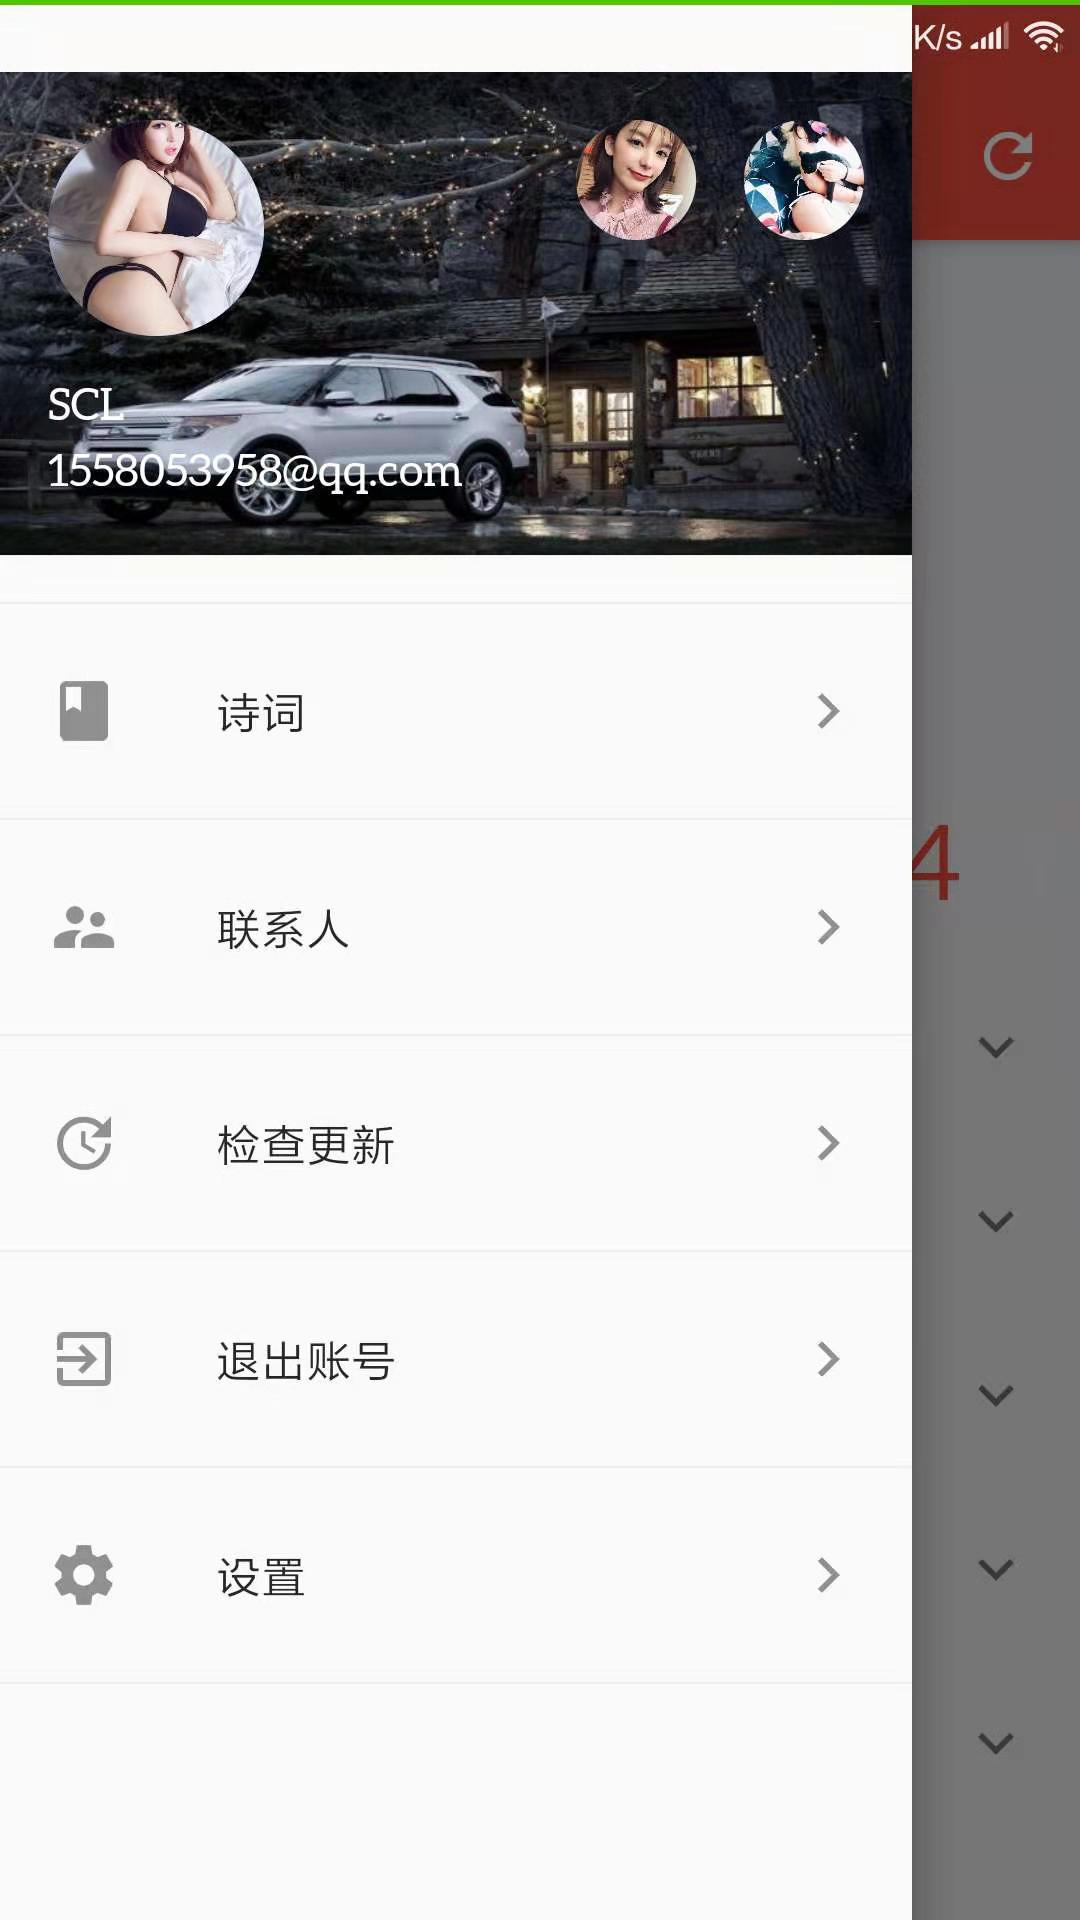
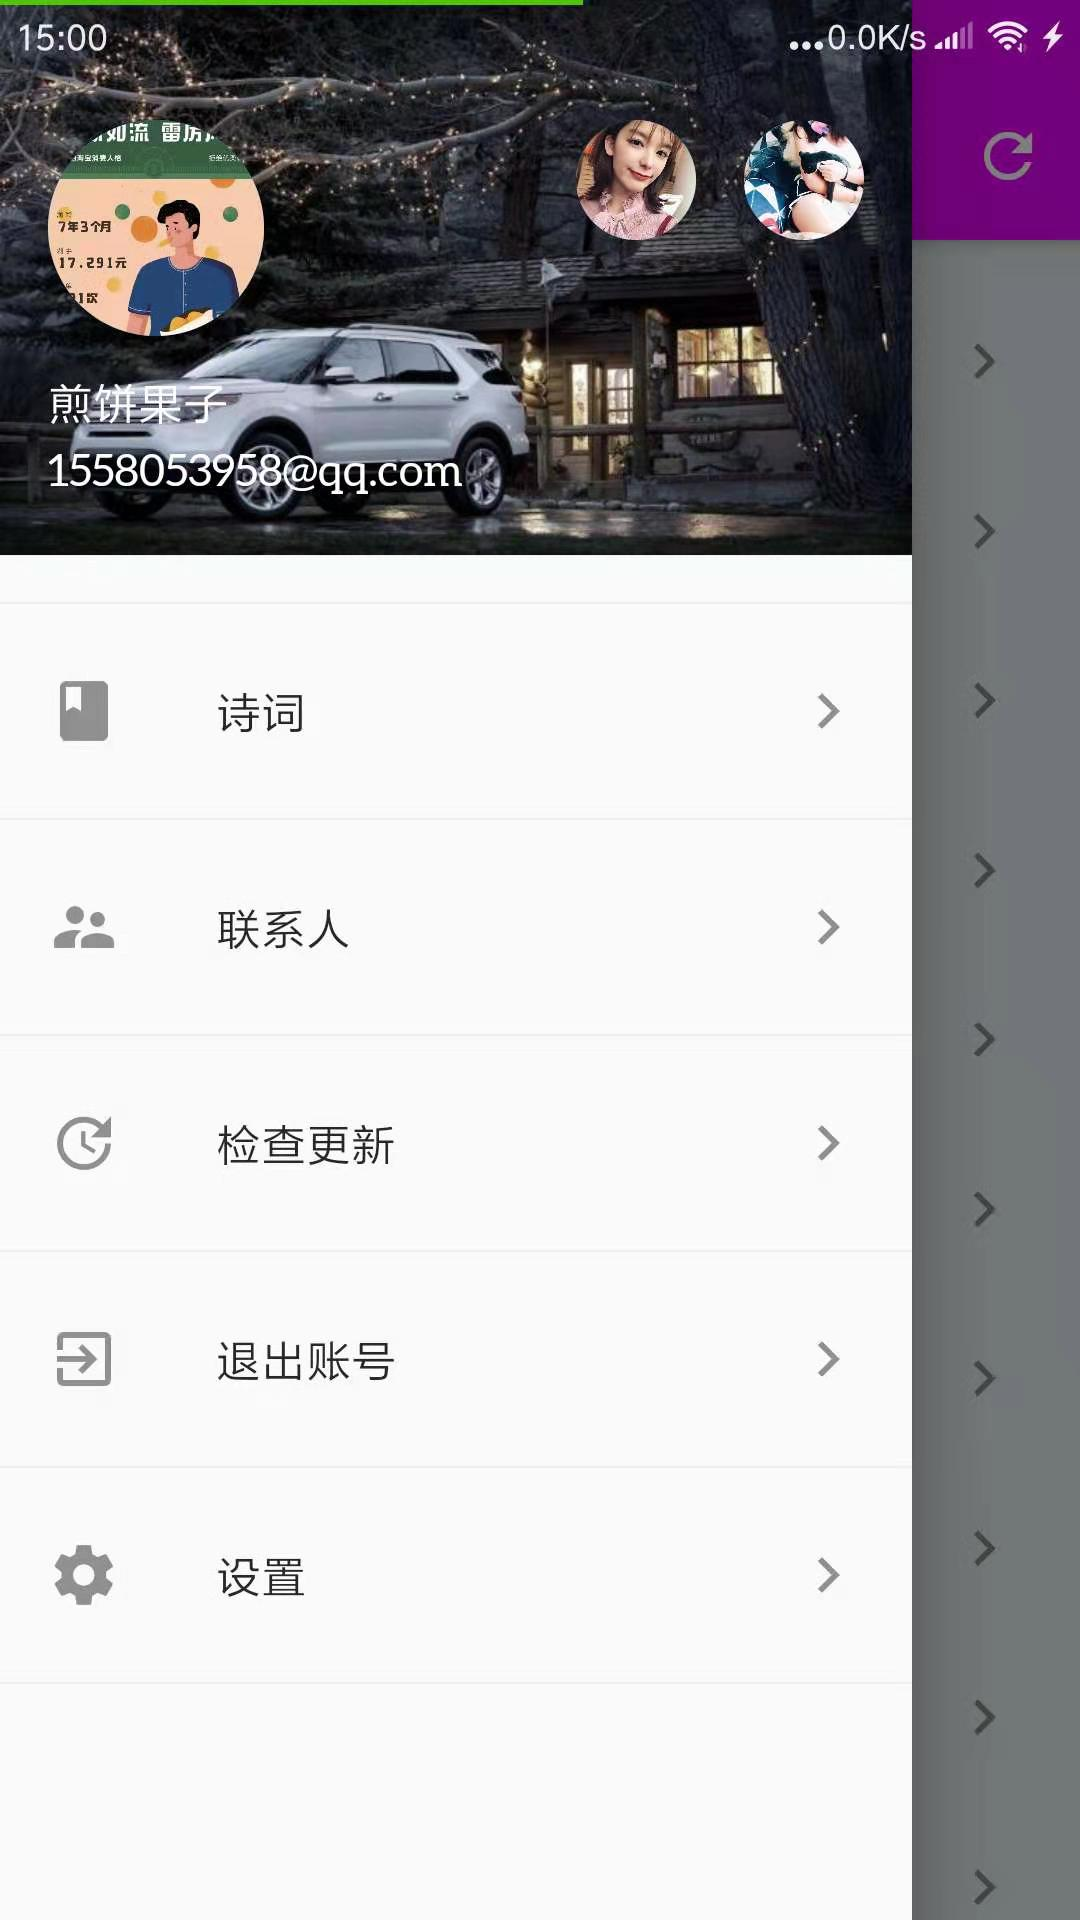
个人中心界面调整

diff --git a/lib/page/mine_page.dart b/lib/page/mine_page.dart
@@ -1,8 +1,8 @@
 import 'dart:io';
 
+import 'package:clippy_flutter/clippy_flutter.dart';
 import 'package:flutter/cupertino.dart';
 import 'package:flutter/material.dart';
-import 'package:font_awesome_flutter/font_awesome_flutter.dart';
 
 import '../generated/i18n.dart';
 import '../store/index.dart';
@@ -28,88 +28,118 @@ class _MinePageState extends State<MinePage> {
   Widget build(BuildContext context) {
     return Store.connect<UserModel>(builder: (_, UserModel _data, __) {
       return Scaffold(
-        backgroundColor: Colors.grey[200],
-        body: SingleChildScrollView(
-          child: Column(children: <Widget>[
-            Container(
-              child: AppBar(
-                elevation: 0.0,
-                title: Text('个人中心'),
-                centerTitle: true,
-                actions: <Widget>[
-                  IconButton(
-                      icon: Text(isEdit
-                          ? "${S.of(context).save}"
-                          : '${S.of(context).edit}'),
-                      onPressed: () {
-                        setState(() {
-                          isEdit = !isEdit;
-                        });
-                      })
-                ],
+          backgroundColor: Colors.grey[200],
+          body: Stack(
+            children: <Widget>[
+              SingleChildScrollView(
+                child: Column(children: <Widget>[
+                  Container(
+                      height: 250,
+                      child: Stack(children: <Widget>[
+                        Arc(
+                            child: ImageLoadView(backgroundImage,
+                                fit: BoxFit.cover,
+                                height: 210,
+                                width: double.infinity),
+                            height: 30,
+                            edge: Edge.BOTTOM,
+                            arcType: ArcType.CONVEX),
+                        Positioned(
+                            child: Container(
+                              child: Column(children: <Widget>[
+                                Align(
+                                    alignment: Alignment.center,
+                                    child: InkWell(
+                                        onTap: isEdit
+                                            ? () => pushNewPage(
+                                                context,
+                                                InputTextPage(
+                                                    title: '修改姓名',
+                                                    content:
+                                                        '${_data.getName()}',
+                                                    maxLines: 1,
+                                                    maxLength: 5),
+                                                callBack: (value) =>
+                                                    _data.setUser(name: value))
+                                            : null,
+                                        child: Row(
+                                            mainAxisSize: MainAxisSize.min,
+                                            children: <Widget>[
+                                              Text('${_data.getName()}',
+                                                  style:
+                                                      TextStyles.textWhite16),
+                                              Offstage(
+                                                  offstage: !isEdit,
+                                                  child: Icon(Icons.edit,
+                                                      color: Colors.white,
+                                                      size: 15))
+                                            ]))),
+                                Gaps.vGap5,
+                                Stack(
+                                    alignment: Alignment.center,
+                                    children: <Widget>[
+                                      ImageLoadView('${_data.getAvatarPath()}',
+                                          imageType: _data.isLocal()
+                                              ? ImageType.localFile
+                                              : ImageType.network,
+                                          borderRadius: BorderRadius.all(
+                                              Radius.circular(40.0)),
+                                          width: 80,
+                                          height: 80),
+                                      Offstage(
+                                          offstage: !isEdit,
+                                          child: IconButton(
+                                              icon: Icon(Icons.photo_camera,
+                                                  color: Colors.white),
+                                              onPressed: () => choiceImage()))
+                                    ])
+                              ]),
+                            ),
+                            bottom: 0,
+                            right: 0,
+                            left: 0),
+                      ])),
+                  Divider(),
+                  SelectTextItem(
+                      leading: Icons.email,
+                      title: '邮箱',
+                      content: '${_data.getEmail()}',
+                      margin: EdgeInsets.only(left: 16.0, right: 8),
+                      onTap: isEdit
+                          ? () => pushNewPage(
+                                  context,
+                                  InputTextPage(
+                                    title: '修改邮箱',
+                                    content: '${_data.getEmail()}',
+                                    maxLines: 1,
+                                    keyboardType: TextInputType.emailAddress,
+                                  ), callBack: (value) {
+                                _data.setUser(email: value);
+                              })
+                          : null,
+                      textAlign: TextAlign.right),
+                  Divider(),
+                  Container(height: 1000)
+                ]),
               ),
-            ),
-            Container(
-                height: 130,
-                width: double.infinity,
-                child: Center(
-                  child: Stack(children: <Widget>[
-                    CircleAvatar(
-                        radius: 40,
-                        backgroundImage: _data.isLocal()
-                            ? FileImage(File('${_data.getAvatarPath()}'))
-                            : NetworkImage('${_data.getAvatarPath()}')),
-                    Offstage(
-                        offstage: !isEdit,
-                        child: IconButton(
-                            icon: Icon(Icons.photo_camera, color: Colors.white),
-                            onPressed: () => choiceImage()))
-                  ], alignment: Alignment.center),
+              Container(
+                height: Utils.navigationBarHeight,
+                child: AppBar(
+                  elevation: 0.0,
+                  title: Text('个人中心'),
+                  centerTitle: true,
+                  backgroundColor: Colors.transparent,
+                  actions: <Widget>[
+                    IconButton(
+                        icon: Text(isEdit
+                            ? "${S.of(context).save}"
+                            : '${S.of(context).edit}'),
+                        onPressed: () => setState(() => isEdit = !isEdit))
+                  ],
                 ),
-                color: Theme.of(context).primaryColor),
-            Divider(),
-            SelectTextItem(
-                leading: FontAwesomeIcons.user,
-                title: '姓名',
-                content: '${_data.getName()}',
-                margin: EdgeInsets.only(left: 16.0, right: 8),
-                onTap: isEdit
-                    ? () => pushNewPage(
-                            context,
-                            InputTextPage(
-                              title: '修改姓名',
-                              content: '${_data.getName()}',
-                              maxLines: 1,
-                              maxLength: 5,
-                            ), callBack: (value) {
-                          _data.setUser(name: value);
-                        })
-                    : null,
-                textAlign: TextAlign.right),
-            Divider(),
-            SelectTextItem(
-                leading: Icons.email,
-                title: '邮箱',
-                content: '${_data.getEmail()}',
-                margin: EdgeInsets.only(left: 16.0, right: 8),
-                onTap: isEdit
-                    ? () => pushNewPage(
-                            context,
-                            InputTextPage(
-                              title: '修改邮箱',
-                              content: '${_data.getEmail()}',
-                              maxLines: 1,
-                              keyboardType: TextInputType.emailAddress,
-                            ), callBack: (value) {
-                          _data.setUser(email: value);
-                        })
-                    : null,
-                textAlign: TextAlign.right),
-            Divider(),
-            Container(height: 1000)
-          ]),
-        ),
-      );
+              ),
+            ],
+          ));
     });
   }
 

diff --git a/lib/ui/home_drawable_header.dart b/lib/ui/home_drawable_header.dart
@@ -1,5 +1,3 @@
-import 'dart:io';
-
 import 'package:flutter/material.dart';
 import 'package:flutter_app/login/page/login_page.dart';
 import '../page/mine_page.dart';
@@ -22,10 +20,12 @@ class HomeDrawableHeader extends StatelessWidget {
 
           /// 用户头像
           currentAccountPicture: InkWell(
-              child: CircleAvatar(
-                  backgroundImage: _data.isLocal()
-                      ? FileImage(File('${_data.getAvatarPath()}'))
-                      : NetworkImage('${_data.getAvatarPath()}')),
+              child: ImageLoadView('${_data.getAvatarPath()}',
+                  imageType:
+                      _data.isLocal() ? ImageType.localFile : ImageType.network,
+                  borderRadius: BorderRadius.all(Radius.circular(40.0)),
+                  width: 80,
+                  height: 80),
               onTap: () {
                 if (_data.isLogin()) {
                   Navigator.pop(context);

diff --git a/lib/global/data.dart b/lib/global/data.dart
@@ -593,7 +593,7 @@ class ChartFlutterBean {
   }
 }
 
-var backgroundImage = 'http://pic1.16pic.com/00/31/72/16pic_3172062_b.jpg';
+var backgroundImage = 'https://timgsa.baidu.com/timg?image&quality=80&size=b9999_10000&sec=1566123324419&di=df1015dd0fcf9fd90a2127190f5c1e39&imgtype=0&src=http%3A%2F%2Fhbimg.b0.upaiyun.com%2Fbcaca7ee3601c6e24762946e9b9d313be5cd4369b0f1-CKjm9d_fw658';
 
 String weatherBg(String condCode) {
   String bgImage = '';
